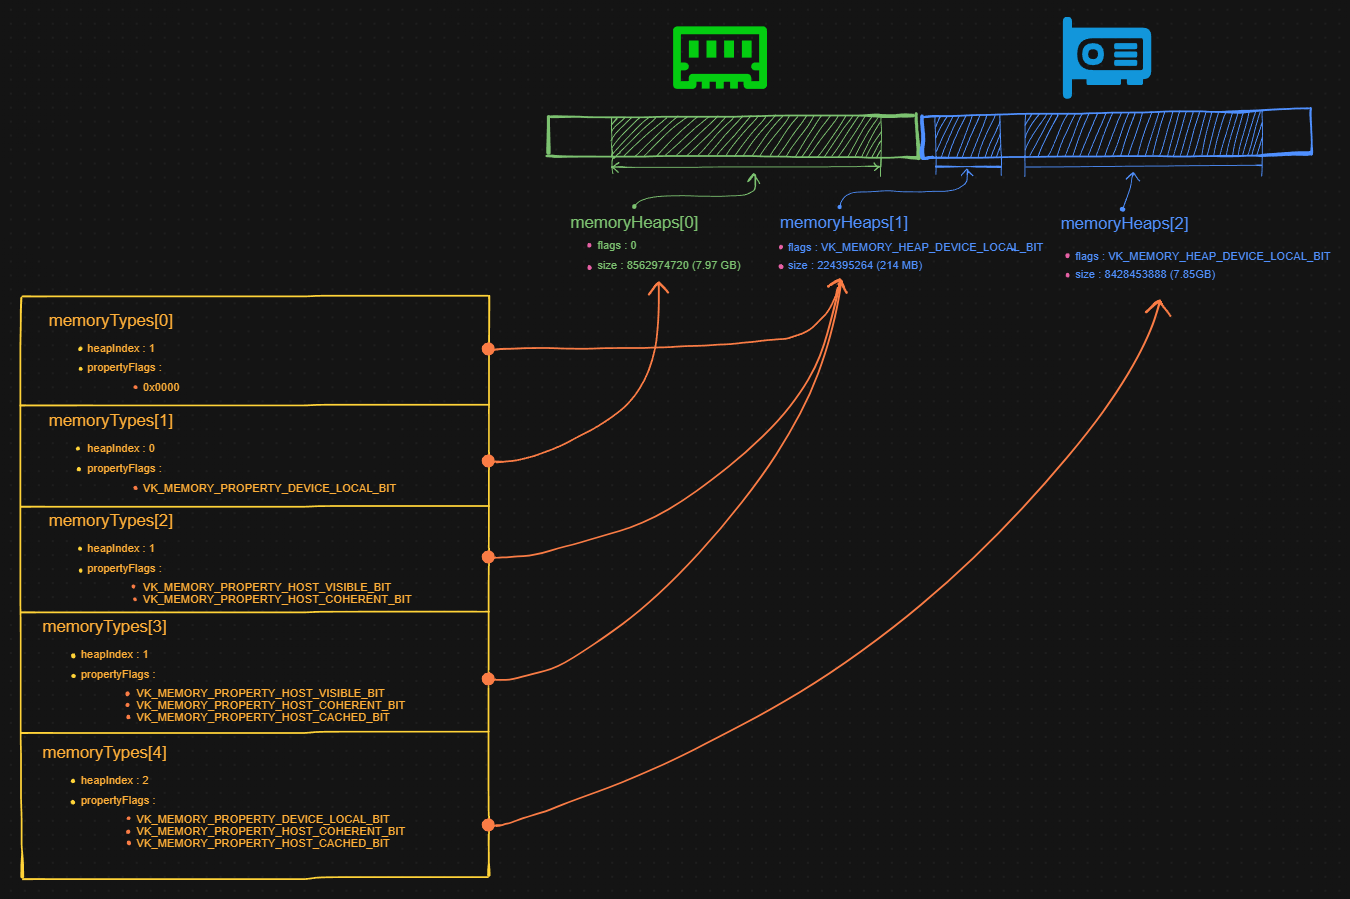
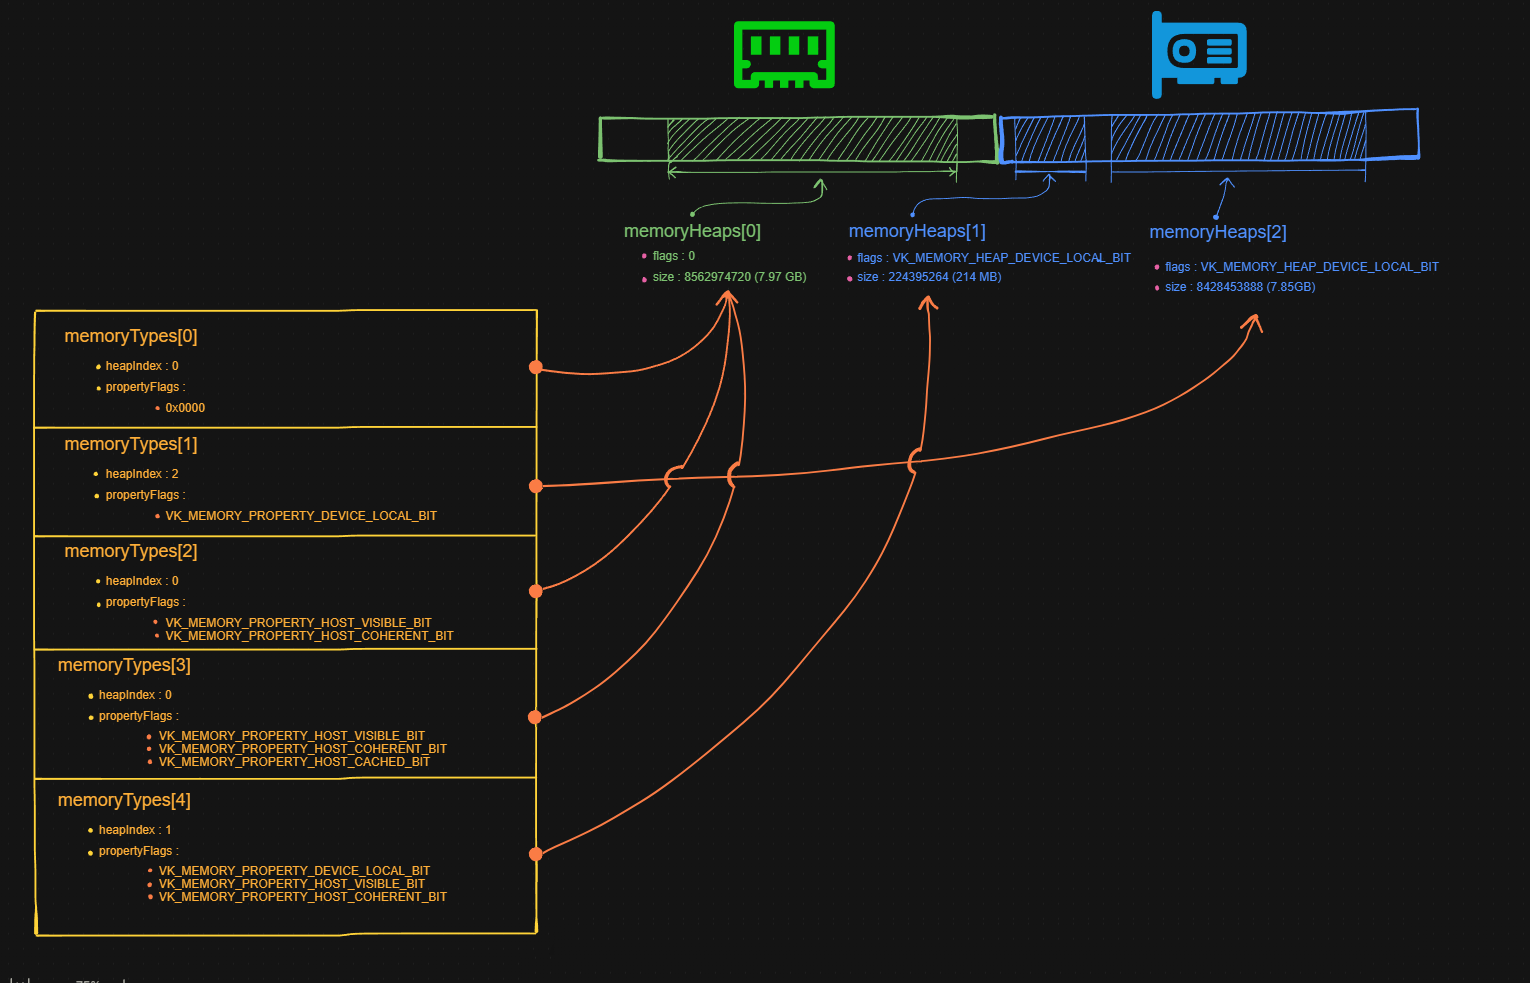
Update source\Memory.rst

diff --git a/source/Memory.rst b/source/Memory.rst
@@ -37,6 +37,12 @@
    * 2024/3/14 增加 ``vkFreeMemory`` 章节下增加 ``示例`` 章节。
    * 2024/3/15 增加 ``内存映射`` 章节。
    * 2024/3/16 增加 ``vkMapMemory`` 章节。
+   * 2024/3/16 增加 ``vkMapMemory`` 章节下增加 ``示例`` 章节。
+   * 2024/3/16 更新 ``设备内存类型示意图`` 内容，之前图中有错误。
+   * 2024/3/16 更新 ``内存分配`` 章节中的 ``示例`` 章节。
+   * 2024/3/16 增加 ``内存解映射`` 章节。
+   * 2024/3/16 增加 ``内存解映射`` 章节下增加 ``示例`` 章节。
+   * 2024/3/16 增加 ``内存同步`` 章节。
 
 ``Vulkan`` 中有两种分配内存的途径：
 
@@ -710,6 +716,13 @@ VkMemoryAllocateInfo
       float r;
       float g;
       float b;
+
+      Color(float r, float g, float b)
+      {
+         this->r = r;
+         this->g = g;
+         this->b = b;
+      }
    };
 
    std::vector<Color> colors;
@@ -726,7 +739,7 @@ VkMemoryAllocateInfo
    memory_allocate_info.sType = VkStructureType::VK_STRUCTURE_TYPE_MEMORY_ALLOCATE_INFO;
    memory_allocate_info.pNext = nullptr;
    memory_allocate_info.allocationSize = sizeof(Color) * colors.size();
-   memory_allocate_info.memoryTypeIndex = 4;
+   memory_allocate_info.memoryTypeIndex = 1; // 对应 VkPhysicalDeviceMemoryProperties::memoryTypes[1]
 
    VkDeviceMemory device_memory = VK_NULL_HANDLE;
 
@@ -773,11 +786,11 @@ vkFreeMemory
 
 如果内存分配时指定的内存类型支持 ``VkMemoryPropertyFlagBits::VK_MEMORY_PROPERTY_HOST_VISIBLE_BIT`` 的话，说明该内存 :bdg-warning:`可映射` 。
 
-所谓 :bdg-warning:`可映射` 意思是：可以将该内存所对应的内存地址返回给 ``CPU`` 。
+* 所谓 :bdg-warning:`可映射` 意思是：可以将该内存所对应的内存地址返回给 ``CPU`` 。
 
 原则上所有的设备内存对于 ``CPU`` 来说并不像 ``new/malloc`` 分配出来的内存那样能够直接进行读写。为了 ``CPU`` 能够读写设备内存，硬件供应商都会提供一部分带有 ``VkMemoryPropertyFlagBits::VK_MEMORY_PROPERTY_HOST_VISIBLE_BIT`` 属性的内存用于 ``CPU`` 访问。
 
-而在 ``Vulkan`` 中分配的内存最终只会对应一个 ``VkDeviceMemory`` 句柄，为了能够获得 ``VkMemoryPropertyFlagBits::VK_MEMORY_PROPERTY_HOST_VISIBLE_BIT`` 内存类型分配的内存句柄底层的内存地址，可以通过 ``vkMapMemory(...)`` 函数将分配的设备内存底层的 :bdg-warning:`虚拟` （说明见下文） 地址返回给 ``CPU`` （也就是 ``Host`` 端）。
+而在 ``Vulkan`` 中分配的内存最终只会对应一个 ``VkDeviceMemory`` 句柄，为了能够获得 ``VkMemoryPropertyFlagBits::VK_MEMORY_PROPERTY_HOST_VISIBLE_BIT`` 内存类型分配的内存句柄底层的内存地址，可以通过 ``vkMapMemory(...)`` 函数将分配的设备内存底层的 :bdg-warning:`虚拟` （说明见下文）地址返回给 ``CPU`` （也就是 ``Host`` 端）。
 
 该函数定义如下：
 
@@ -802,16 +815,116 @@ vkMapMemory
 * :bdg-secondary:`flags` 内存映射的额外标志位参数。
 * :bdg-secondary:`ppData` 内存映射结果。为 ``void*`` 的指针。该指针减去 ``offset`` 的对齐大小最小 :bdg-danger:`必须` 为 ``VkPhysicalDeviceLimits::minMemoryMapAlignment`` 。
 
-其中 ``memory`` :bdg-danger:`必须` 在 ``VkMemoryPropertyFlagBits::VK_MEMORY_PROPERTY_HOST_VISIBLE_BIT`` 类型的内存上分配。当该函数成功返回后， ``memory`` 就被认为在 ``Host`` 进行了 ``内存映射`` 。
+其中 ``memory`` :bdg-danger:`必须` 在 ``VkMemoryPropertyFlagBits::VK_MEMORY_PROPERTY_HOST_VISIBLE_BIT`` 类型的内存上分配。当该函数成功返回后， ``memory`` 就被认为在 ``Host 端`` 进行了 ``内存映射`` ，并处于 :bdg-warning:`映射态` 。
+
+.. admonition:: VkMemoryMapFlags
+   :class: note
+
+   在 ``Vulkan 1.0`` 标准中， ``VkMemoryMapFlags`` 没有定义有效值，所以相应的 ``flags`` 参数赋值为 ``0`` 即可。
 
 .. note::
 
    在已经进行 ``内存映射`` 的内存上再次调用 ``vkMapMemory(...)`` 是开发错误。开发者应避免该错误。
 
+.. admonition:: 虚拟地址
+   :class: important
 
+   ``vkMapMemory(...)`` 函数返回的 ``ppData`` 内存映射结果确切来说 :bdg-warning:`不是` 真正意义上的内存地址，而是一个 :bdg-warning:`虚拟` 内存地址，对该地址的操作就 :bdg-warning:`好似` 对底层真正的内存进行操作，其本质上是对虚拟内存的操作。
+
+   由于返回的是虚拟内存地址，不同平台对于虚拟内存大小有不同的限制，所以当 ``vkMapMemory()`` 映射的虚拟地址范围超过平台限制后该函数将会返回 ``VkResult::VK_ERROR_MEMORY_MAP_FAILED`` 表示本次映射失败。为此，可通过将内存进行分小块进行映射或对已经映射的内存进行 :bdg-warning:`解映射` （说明见下文）来释放一部分虚拟内存。
+
+示例
+^^^^^^^^^^^^^^^^^^^^
+
+在有 ``VkMemoryPropertyFlagBits::VK_MEMORY_PROPERTY_HOST_VISIBLE_BIT`` 内存类型的内存上分配内存，并进行内存映射（根据 :ref:`memory_heap_and_type` 中的情况）：
+
+.. code:: c++
+
+   VkDevice device = 之前创建的逻辑设备;
+
+   struct Position
+   {
+      float x;
+      float y;
+      float z;
+
+      Position(float x, float y, float z)
+      {
+         this->x = x;
+         this->y = y;
+         this->z = z;
+      }
+   };
+
+   std::vector<Position> positions;
+   positions.push_back(Position(0, 0, 0));
+   positions.push_back(Position(0, 0, 1));
+   positions.push_back(Position(0, 1, 0));
+   positions.push_back(Position(0, 1, 1));
+   positions.push_back(Position(1, 0, 0));
+   positions.push_back(Position(1, 0, 1));
+   positions.push_back(Position(1, 1, 0));
+   positions.push_back(Position(1, 1, 1));
+
+   VkMemoryAllocateInfo memory_allocate_info = {};
+   memory_allocate_info.sType = VkStructureType::VK_STRUCTURE_TYPE_MEMORY_ALLOCATE_INFO;
+   memory_allocate_info.pNext = nullptr;
+   memory_allocate_info.allocationSize = sizeof(Position) * positions.size();
+   memory_allocate_info.memoryTypeIndex = 2; // 对应 VkPhysicalDeviceMemoryProperties::memoryTypes[2]
+
+   VkDeviceMemory device_memory = VK_NULL_HANDLE;
+
+   VkResult result = vkAllocateMemory(device, &memory_allocate_info, nullptr, &device_memory);
+   if(result != VkResult::VK_SUCCESS)
+   {
+      throw std::runtime_error("VkDeviceMemory 内存创建失败");
+   }
+
+   void* device_memory_ptr = nullptr;
+
+   result = vkMapMemory(device, device_memory, 0, VK_WHOLE_SIZE, 0, &device_memory_ptr);
+   if(result != VkResult::VK_SUCCESS)
+   {
+      throw std::runtime_error("VkDeviceMemory 内存映射失败");
+   }
+
+   memcpy(device_memory_ptr, positions.data(), memory_allocate_info.allocationSize); // 将数据写入 device_memory 内存中
+
+内存解映射
+**************************************
+
+当内存映射并使用结束后，可进行解除映射，进而释放系统的虚拟内存。可通过 ``vkUnmapMemory(...)`` 函数将映射过的内存进行 :bdg-warning:`解映射` 。该函数定义如下：
+
+.. code:: c++
+
+   // 由 VK_VERSION_1_0 提供
+   void vkUnmapMemory(
+       VkDevice                                    device,
+       VkDeviceMemory                              memory);
+
+* :bdg-secondary:`device` 内存对应的逻辑设备。
+* :bdg-secondary:`memory` 要解映射的目标内存。该内存 :bdg-danger:`必须` 处于 :bdg-warning:`映射态` 。
+
+该函数之后 :bdg-warning:`映射态` 的状态将解除，回归到 :bdg-warning:`原始状态` 。
+
+示例
+--------------------
+
+对前一个示例中分配的设备内存进行解映射：
+
+.. code:: c++
+
+   VkDevice device = 之前创建的逻辑设备;
+   VkDeviceMemory device_memory = 之前分配的设备内存; // 分配于 VkMemoryPropertyFlagBits::VK_MEMORY_PROPERTY_HOST_VISIBLE_BIT 并处于 映射态
+
+   vkUnmapMemory(device, device_memory);
+
+内存同步
+**************************************
 
 
 ..
+   VkMemoryMapFlags
    vkMapMemory不能重复调用
    HOST_VISIBLE
    HOST_COHERENT
